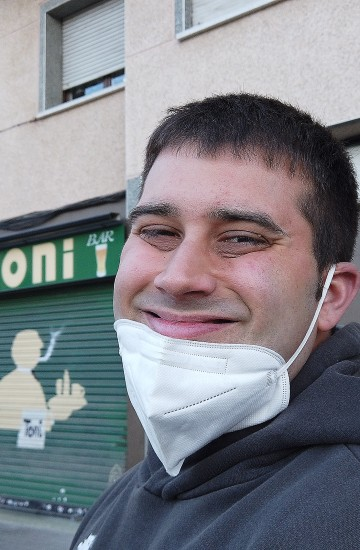
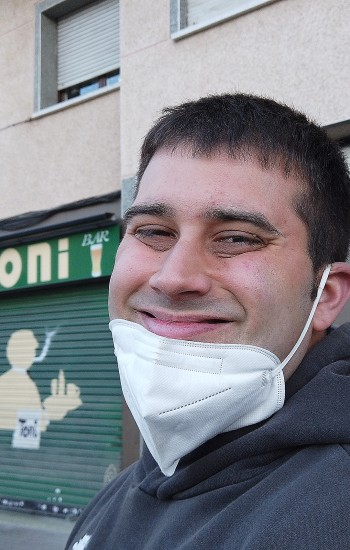
dfdf

diff --git a/PR5-PHP/viewSelectedImage.php b/PR5-PHP/viewSelectedImage.php
@@ -1,0 +1,57 @@
+<?php 
+if (!isset($_SESSION)) {
+    session_start();
+}
+
+$dir_desenfocada = "./resources/upload/inputImg";
+$dir_enfocada = "./resources/upload/outputImg";
+$extensions_array = array('JPG','PNG','jpg','png','jpeg');
+
+$fotoSeleccionada = $_POST["optionViewImage"];
+
+$cadena_desenfocada   = 'inputImg';
+
+$posicion_coincidencia = strpos($fotoSeleccionada, $cadena_desenfocada);
+
+if($posicion_coincidencia==false){
+    //buscar en la ruta de output
+    $fotoSeleccionada=trim($fotoSeleccionada, "./resources/upload/outputImg/"); //recortamos la ruta para quedarnos con solo el nombre  
+    imprimirImagen($dir_enfocada, $extensions_array,$fotoSeleccionada);
+}else{
+    //buscar en la ruta de input
+    $fotoSeleccionada=trim($fotoSeleccionada, "./resources/upload/inputImg/");  
+    imprimirImagen($dir_desenfocada, $extensions_array,$fotoSeleccionada);   
+}
+
+
+function imprimirImagen($dir, $extensions_array,$fotoSeleccionada){     
+    if(is_dir($dir)){
+        $files = scandir($dir);
+        
+        for($i = 0; $i < count($files); $i++){
+            if($files[$i]==$fotoSeleccionada){
+                // get file name
+                echo "File Name -> $files[$i]<br>";
+                
+                // get file extension
+                $file = pathinfo($files[$i]);
+                $extension = $file['extension'];
+                echo "File Extension-> $extension<br>";
+                
+            // check file extension
+                if(in_array($extension, $extensions_array)){
+                // show image
+                echo "<img src='$dir/$files[$i]'><br>";
+                }
+            }
+        }
+    }
+}
+
+
+
+
+
+
+
+?>

diff --git a/PR5-PHP/processImage.php b/PR5-PHP/processImage.php
@@ -37,10 +37,11 @@ if (is_file("./resources/upload/inputImg/" . $_FILES["imgFile"]["name"])) {
                 $fotoDesenfocada = "./resources/upload/inputImg/". $_FILES["imgFile"]["name"];
                 $_SESSION['images']['desenfocada'][] = $fotoDesenfocada;
                 $imagenObj->sharpen(50);
-                $imagenObj->fit(360,550);
+                $imagenObj->fit(350,550);
                 $imagenObj->save("./resources/upload/outputImg/". $_FILES["imgFile"]["name"]);
-                $fotoEnfocada = "./resources/upload/enfocada/". $_FILES["imgFile"]["name"];
-                $_SESSION['images']['enfocada'][] = $fotoEnfocada;
+                $fotoEnfocada = "./resources/upload/outputImg/". $_FILES["imgFile"]["name"];
+                $_SESSION['images']['outputImg'][] = $fotoEnfocada;
+                $_SESSION['images']['all'][] = $fotoEnfocada;
                 
         
         $imagenObj->save("./resources/upload/outputImg/" . $_FILES["imgFile"]["name"],90);

diff --git a/PR5-PHP/public/index.php b/PR5-PHP/public/index.php
@@ -26,7 +26,7 @@ echo('</pre>');
 ?>
     <div class="d-inline-flex p-2">
         <div class="container">
-            <form method="POST" >
+            <form method="POST" action="../viewImage.php" enctype="multipart/form-data">
                 <h1>VER IMAGENES</h1>
                 <h2>Seleccionar una</h2>
                 <select name="optionViewImage">
@@ -56,13 +56,13 @@ echo('</pre>');
 
 
         <div class="container">
-            <FORM method="POST" action="../processImage.php" enctype="multipart/form-data">
+            <form method="POST" action="../processImage.php" enctype="multipart/form-data">
                 <h1>SUBIR IMAGENES</h1>
                 <h2>Sube la imagen</h2>
                 <input type="file" name="imgFile">
                 <br><br>
                 <input type="submit">
-            </FORM>
+            </form>
         </div>
     </div>
 </BODY>

diff --git a/PR5-PHP/viewImages.php b/PR5-PHP/viewImages.php
@@ -7,7 +7,6 @@ if (!isset($_SESSION)) {
 
 $dir_desenfocada = "./resources/upload/inputImg";
 $dir_enfocada = "./resources/upload/outputImg";
-$dir_todas= "./resources/upload/all";
 $extensions_array = array('JPG','PNG','jpg','png','jpeg');
 
 function imprimirImagenes($dir_path,  $extensions_array){     
